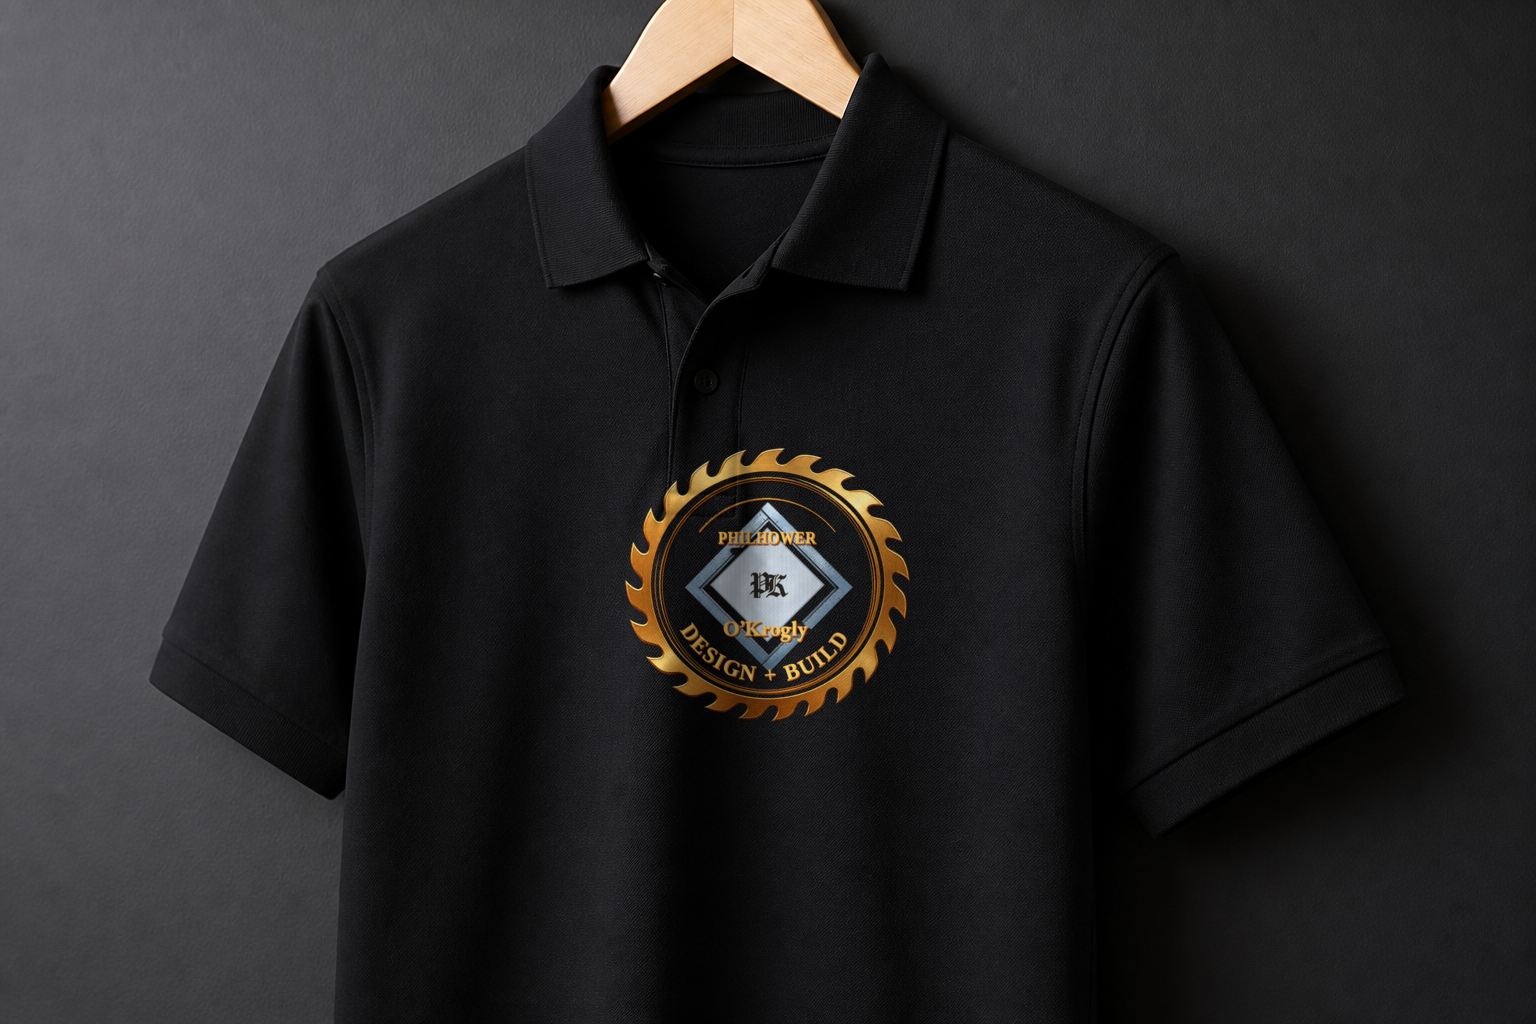
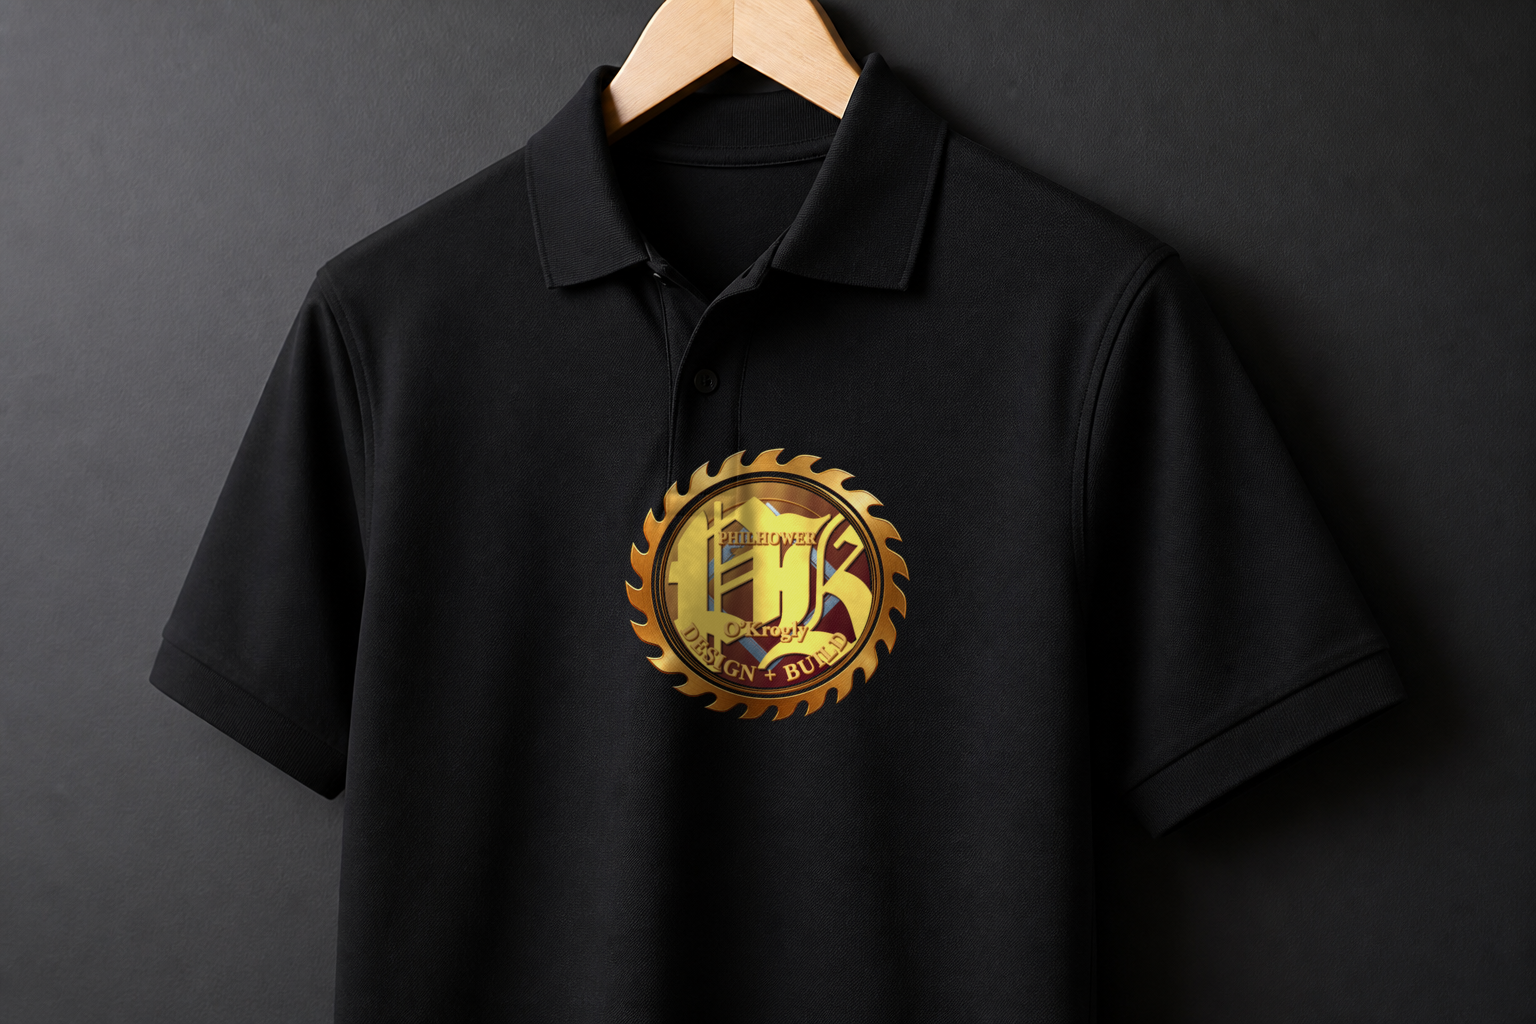
Enlarge the POK monogram over a gold–burgundy field.
PK overlaps the carpenter-square. The open blade field is a gold-to-burgundy
gradient instead of pale steel or empty black.

Changed region(s): [[0.4062, 0.4688, 0.5938, 0.6875]]

diff --git a/dphilhower-studio-wp/preview/work/philhower-okrogly/index.html b/dphilhower-studio-wp/preview/work/philhower-okrogly/index.html
@@ -31,7 +31,7 @@
       <p>Design + Build</p>
     </header>
     <div class="case-hero">
-      <img src="../../img/pok-hero.png" alt="Philhower &amp; O’Krogly lockup: Hills blade, Times PHILHOWER, PK etched into the carpenter-square, Garamond O’Krogly, DESIGN + BUILD" width="1536" height="1024">
+      <img src="../../img/pok-hero.png" alt="Philhower &amp; O’Krogly lockup: Hills blade, large PK overlapping the carpenter-square on a gold–burgundy field, Times PHILHOWER, Garamond O’Krogly, DESIGN + BUILD" width="1536" height="1024">
     </div>
     <article class="case-body">
       <ul class="case-meta">
@@ -41,8 +41,8 @@
         <li><strong>Place</strong><br>Northern New Jersey</li>
       </ul>
       <div class="entry-content">
-        <p>Same Hills blade. Carpenter-square field, PK etched into the steel in modern Old English. PHILHOWER in Times, O’Krogly in Garamond — each name in its own lane. DESIGN + BUILD on the bottom arc. Room so every word reads.</p>
-        <p>One lockup. Polo, van, yard, card, fridge. Black field so gold reads. Blue is only the diamond.</p>
+        <p>Same Hills blade. Big Old English PK overlapping the carpenter-square. Gold–burgundy gradient fills the open field. PHILHOWER in Times, O’Krogly in Garamond. DESIGN + BUILD on the bottom arc.</p>
+        <p>One lockup. Polo, van, yard, card, fridge. Black outside the blade.</p>
       </div>
     </article>
     <section class="brand-kit">
@@ -56,7 +56,7 @@
         </figure>
         <figure>
           <img src="../../img/pok-print-shirt.png" alt="Black polo with the Philhower &amp; O’Krogly saw-blade lockup centered on the chest" width="1536" height="1024">
-          <figcaption><strong>Polo</strong> Center chest. Modern Old English PK etched into the square; Times and Garamond over it.</figcaption>
+          <figcaption><strong>Polo</strong> Center chest. Big Old English PK overlapping the square on a gold–burgundy field; Times and Garamond over it.</figcaption>
         </figure>
         <figure>
           <img src="../../img/pok-print-van.png" alt="Matte black van with the Philhower &amp; O’Krogly saw-blade lockup on the side" width="1536" height="1024">

diff --git a/dphilhower-studio-wp/theme/dphilhower-studio/style.css b/dphilhower-studio-wp/theme/dphilhower-studio/style.css
@@ -4,7 +4,7 @@ Theme URI: https://dphilhower.com
 Author: D Philhower Studio
 Author URI: https://dphilhower.com
 Description: Custom graphic design studio theme for D Philhower Studio at dphilhower.com — portfolio, services, about, and project inquiries. Activate the theme to load demo pages and work samples.
-Version: 1.0.32
+Version: 1.0.33
 Requires at least: 6.4
 Tested up to: 6.8
 Requires PHP: 7.4

diff --git a/dphilhower-studio-wp/theme/dphilhower-studio/inc/brand-kits.php b/dphilhower-studio-wp/theme/dphilhower-studio/inc/brand-kits.php
@@ -289,7 +289,7 @@ function dps_brand_kits() {
 		'philhower-okrogly'        => array(
 			'label'  => __( 'Print system', 'dphilhower-studio' ),
 			'title'  => __( 'One lockup, five scales', 'dphilhower-studio' ),
-			'intro'  => __( 'Hills blade. Carpenter-square field, modern Old English PK etched into the steel. Times PHILHOWER and Garamond O’Krogly in their own lanes. DESIGN + BUILD on the bottom arc. Room so every word reads. Polo, van, yard, card, fridge — one lockup.', 'dphilhower-studio' ),
+			'intro'  => __( 'Hills blade. Big Old English PK overlapping the carpenter-square. Gold–burgundy gradient in the open field. Times PHILHOWER, Garamond O’Krogly. DESIGN + BUILD on the bottom arc. Polo, van, yard, card, fridge — one lockup.', 'dphilhower-studio' ),
 			'pieces' => array(
 				array(
 					'file'    => 'pok-seal-hero.png',
@@ -301,7 +301,7 @@ function dps_brand_kits() {
 					'file'    => 'pok-print-shirt.png',
 					'alt'     => __( 'Black polo with the Philhower & O’Krogly saw-blade lockup centered on the chest', 'dphilhower-studio' ),
 					'heading' => __( 'Polo', 'dphilhower-studio' ),
-					'story'   => __( 'Center chest. Modern Old English PK etched into the square; Times and Garamond over it.', 'dphilhower-studio' ),
+					'story'   => __( 'Center chest. Big Old English PK overlapping the square on a gold–burgundy field; Times and Garamond over it.', 'dphilhower-studio' ),
 				),
 				array(
 					'file'    => 'pok-print-van.png',

diff --git a/dphilhower-studio-wp/theme/dphilhower-studio/inc/setup-content.php b/dphilhower-studio-wp/theme/dphilhower-studio/inc/setup-content.php
@@ -326,7 +326,7 @@ function dps_seed_demo_content( $force = false ) {
 			'services' => 'Identity · embroidery · vehicle · signage',
 			'year'     => '2025',
 			'location' => 'Northern New Jersey',
-			'content'  => '<p>Same Hills blade. Carpenter-square field, PK etched into the steel in modern Old English. PHILHOWER in Times, O’Krogly in Garamond — each name in its own lane. DESIGN + BUILD on the bottom arc. Room so every word reads.</p><p>One lockup. Polo, van, yard, card, fridge. Black field so gold reads.</p>',
+			'content'  => '<p>Same Hills blade. Big Old English PK overlapping the carpenter-square. Gold–burgundy gradient fills the open field. PHILHOWER in Times, O’Krogly in Garamond. DESIGN + BUILD on the bottom arc.</p><p>One lockup. Polo, van, yard, card, fridge. Black outside the blade.</p>',
 		),
 		array(
 			'slug'     => 'cafe-robust',
@@ -461,7 +461,7 @@ function dps_seed_demo_content( $force = false ) {
 	flush_rewrite_rules();
 
 	update_option( 'dps_demo_seeded', DPS_VERSION );
-	update_option( 'dps_images_version', 'brands-print-25' );
+	update_option( 'dps_images_version', 'brands-print-26' );
 	return true;
 }
 

diff --git a/dphilhower-studio-wp/theme/dphilhower-studio/functions.php b/dphilhower-studio-wp/theme/dphilhower-studio/functions.php
@@ -9,7 +9,7 @@ if ( ! defined( 'ABSPATH' ) ) {
 	exit;
 }
 
-define( 'DPS_VERSION', '1.0.32' );
+define( 'DPS_VERSION', '1.0.33' );
 define( 'DPS_DIR', get_template_directory() );
 define( 'DPS_URI', get_template_directory_uri() );
 
@@ -164,14 +164,14 @@ function dps_maybe_upgrade_images() {
 	if ( 'dphilhower-studio' !== get_stylesheet() ) {
 		return;
 	}
-	if ( get_option( 'dps_images_version' ) === 'brands-print-25' ) {
+	if ( get_option( 'dps_images_version' ) === 'brands-print-26' ) {
 		return;
 	}
 	if ( ! get_option( 'dps_demo_seeded' ) ) {
 		return;
 	}
 	dps_seed_demo_content( true );
-	update_option( 'dps_images_version', 'brands-print-25' );
+	update_option( 'dps_images_version', 'brands-print-26' );
 }
 
 /**
